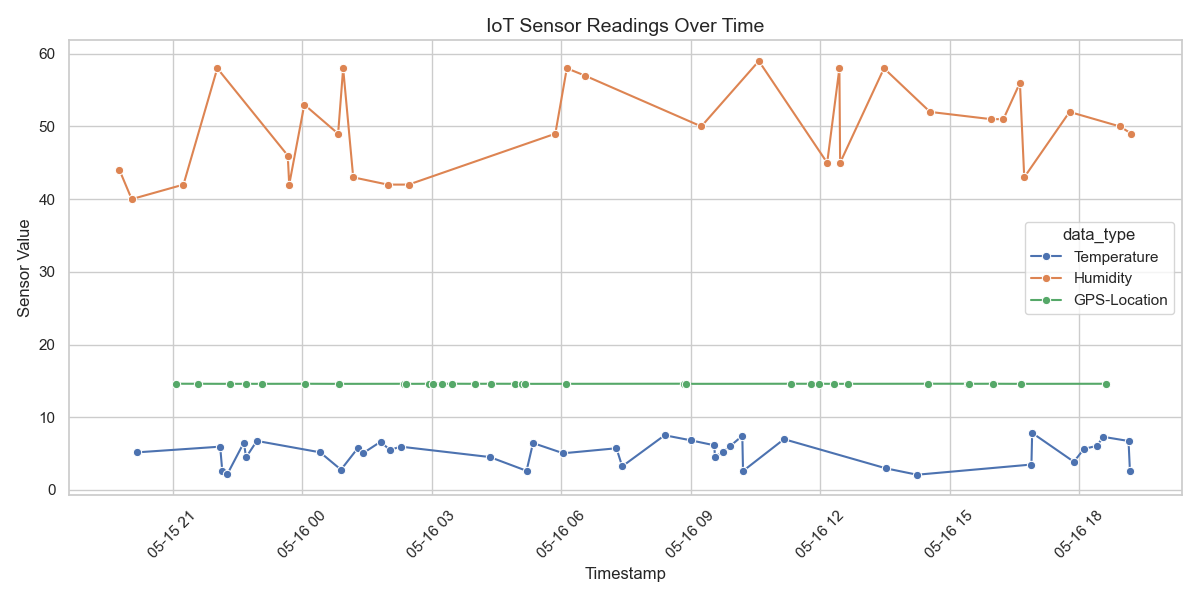
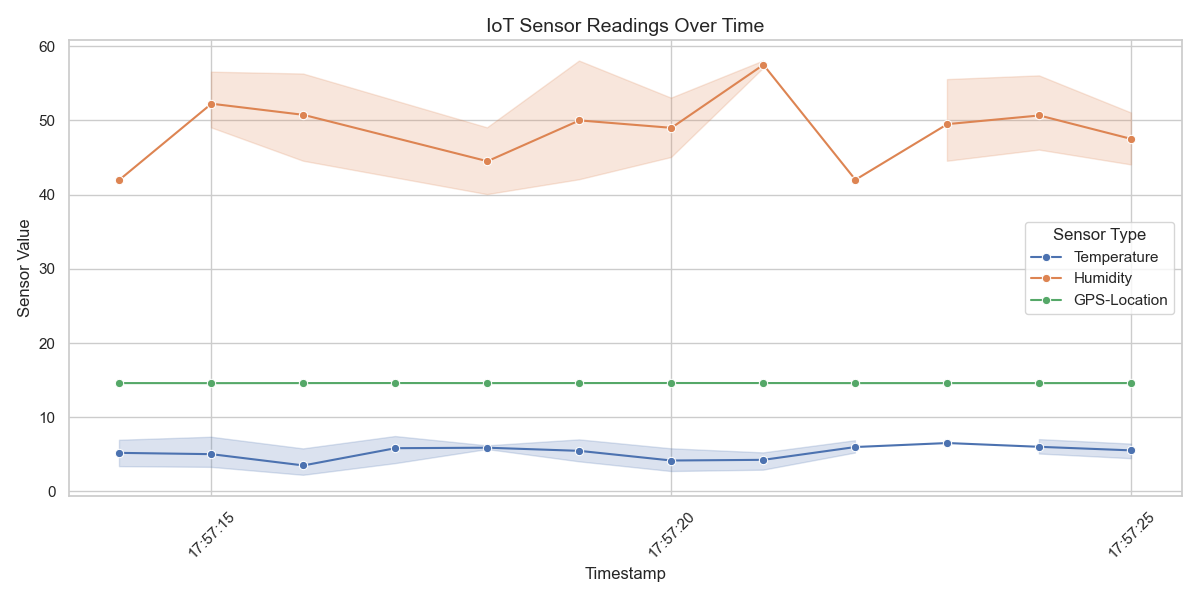
Added final README and completed all project files.

diff --git a/preprocessing.py b/preprocessing.py
@@ -1,50 +1,47 @@
 import pandas as pd
+import numpy as np
+from web3 import Web3
 
-# 1. Load the simulated data
-# Using the exact filename from your Week 2 output
-input_file = "MO-IT148 Homework IoT Data Simulation S2101 Group 28.csv"
-df = pd.read_csv(input_file)
+# 1. Connect to Ganache
+ganache_url = "http://127.0.0.1:7545"
+web3 = Web3(Web3.HTTPProvider(ganache_url))
 
-print("--- Original Data Preview ---")
+# 2. Contract Configurations
+contract_address = Web3.to_checksum_address("0x4f78b869e89FC48368379D215EAca9414Ff2f700")
+abi = [
+    {"inputs": [], "name": "getTotalRecords", "outputs": [{"internalType": "uint256", "name": "", "type": "uint256"}], "stateMutability": "view", "type": "function"},
+    {"inputs": [{"internalType": "uint256", "name": "index", "type": "uint256"}], "name": "getRecord", "outputs": [{"internalType": "uint256", "name": "", "type": "uint256"}, {"internalType": "string", "name": "", "type": "string"}, {"internalType": "string", "name": "", "type": "string"}, {"internalType": "string", "name": "", "type": "string"}], "stateMutability": "view", "type": "function"}
+]
+contract = web3.eth.contract(address=contract_address, abi=abi)
+
+# 3. Get total stored records
+total_records = contract.functions.getTotalRecords().call()
+print(f"Total IoT records stored: {total_records}")
+
+# 4. Fetch all stored IoT data
+data = []
+print("Downloading records from blockchain... (This takes a few seconds)")
+for i in range(total_records):
+    record = contract.functions.getRecord(i).call()
+    data.append({
+        "timestamp": record[0],
+        "device_id": record[1],
+        "data_type": record[2],
+        "data_value": record[3]
+    })
+
+# 5. Convert to DataFrame & Format Timestamps
+df = pd.DataFrame(data)
+df["timestamp"] = pd.to_datetime(df["timestamp"], unit="s")
+print("\n--- Raw Data ---")
 print(df.head())
 
-# 2. Check for missing values
-print("\nChecking for null values:")
-print(df.isnull().sum())
+# 6. Extract numeric values & Handle Missing Values
+df["numeric_value"] = df["data_value"].str.extract(r'(\d+\.?\d*)').astype(float)
+df.fillna(0, inplace=True)
+print("\n--- Cleaned Data ---")
+print(df.head())
 
-# 3. Robust Data Cleaning Function
-def clean_value(val):
-    if isinstance(val, str):
-        # FIX: If it's a GPS coordinate pair, take only the first part (Latitude)
-        if ',' in val:
-            val = val.split(',')[0]
-        
-        # Keep only digits and the first decimal point found
-        numeric_part = ""
-        has_decimal = False
-        for char in val:
-            if char.isdigit():
-                numeric_part += char
-            elif char == '.' and not has_decimal:
-                numeric_part += char
-                has_decimal = True
-        
-        try:
-            return float(numeric_part) if numeric_part else 0.0
-        except ValueError:
-            return 0.0
-    return float(val) if pd.notnull(val) else 0.0
-
-# Create the numeric column for analysis
-df['numeric_value'] = df['data_value'].apply(clean_value)
-
-# 4. Convert timestamp to actual datetime format
-df['timestamp'] = pd.to_datetime(df['timestamp'])
-
-# 5. Save the cleaned data
-output_file = "cleaned_iot_data.csv"
-df.to_csv(output_file, index=False)
-
-print(f"\n✅ Data cleaning complete! Saved as: {output_file}")
-print("--- Cleaned Data Preview ---")
-print(df[['timestamp', 'data_type', 'numeric_value']].head())
+# 7. Save to CSV
+df.to_csv("cleaned_iot_data.csv", index=False)
+print("\n✅ Cleaned IoT data saved successfully as cleaned_iot_data.csv")

diff --git a/visualization.py b/visualization.py
@@ -2,31 +2,28 @@ import pandas as pd
 import matplotlib.pyplot as plt
 import seaborn as sns
 
-# 1. Load the cleaned data
+# 1. Load the cleaned IoT data you just generated
 df = pd.read_csv("cleaned_iot_data.csv")
 
-# 2. Ensure timestamp is in the correct format for plotting
+# 2. Convert timestamp column to actual datetime format for accurate plotting
 df["timestamp"] = pd.to_datetime(df["timestamp"])
 
-# 3. Set the visual style
+# 3. Set the visualization style
 sns.set_theme(style="whitegrid")
 
-# 4. Create the Line Plot
+# 4. Create the line plot
 plt.figure(figsize=(12, 6))
-plot = sns.lineplot(data=df, x="timestamp", y="numeric_value", hue="data_type", marker="o")
+sns.lineplot(data=df, x="timestamp", y="numeric_value", hue="data_type", marker="o")
 
-# 5. Add Titles and Labels
+# 5. Add titles, labels, and format the layout
+plt.xticks(rotation=45)
 plt.title("IoT Sensor Readings Over Time", fontsize=14)
 plt.xlabel("Timestamp", fontsize=12)
 plt.ylabel("Sensor Value", fontsize=12)
-plt.xticks(rotation=45)
-
-# Adjust layout to prevent labels from being cut off
+plt.legend(title="Sensor Type")
 plt.tight_layout()
 
-# 6. Save the plot as an image for your Word doc
+# 6. Save the plot as an image and display it
 plt.savefig("iot_sensor_plot.png")
-print("✅ Plot saved as iot_sensor_plot.png")
-
-# 7. Show the plot on screen
+print("✅ Plot saved successfully as iot_sensor_plot.png")
 plt.show()